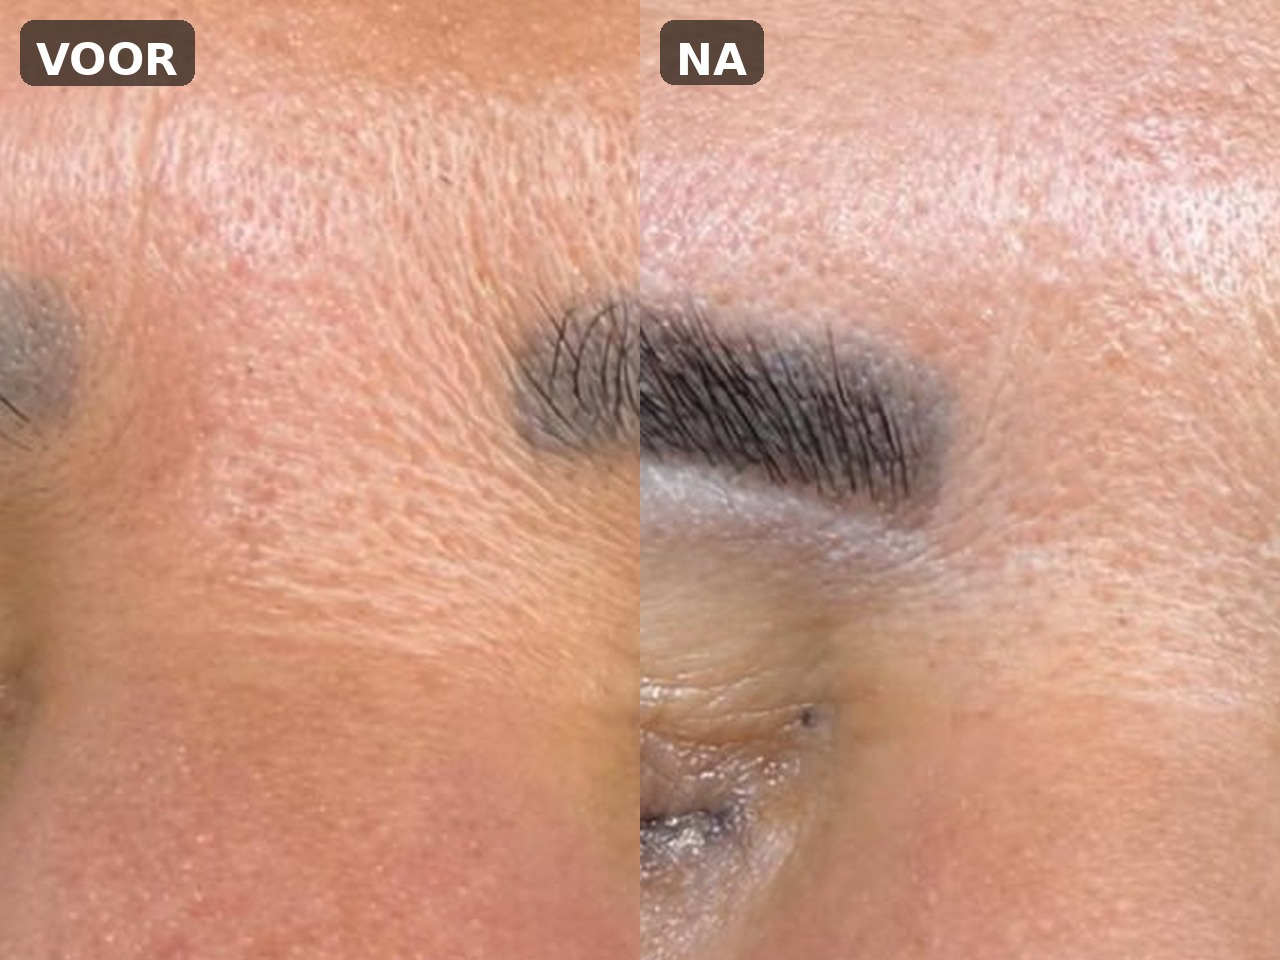
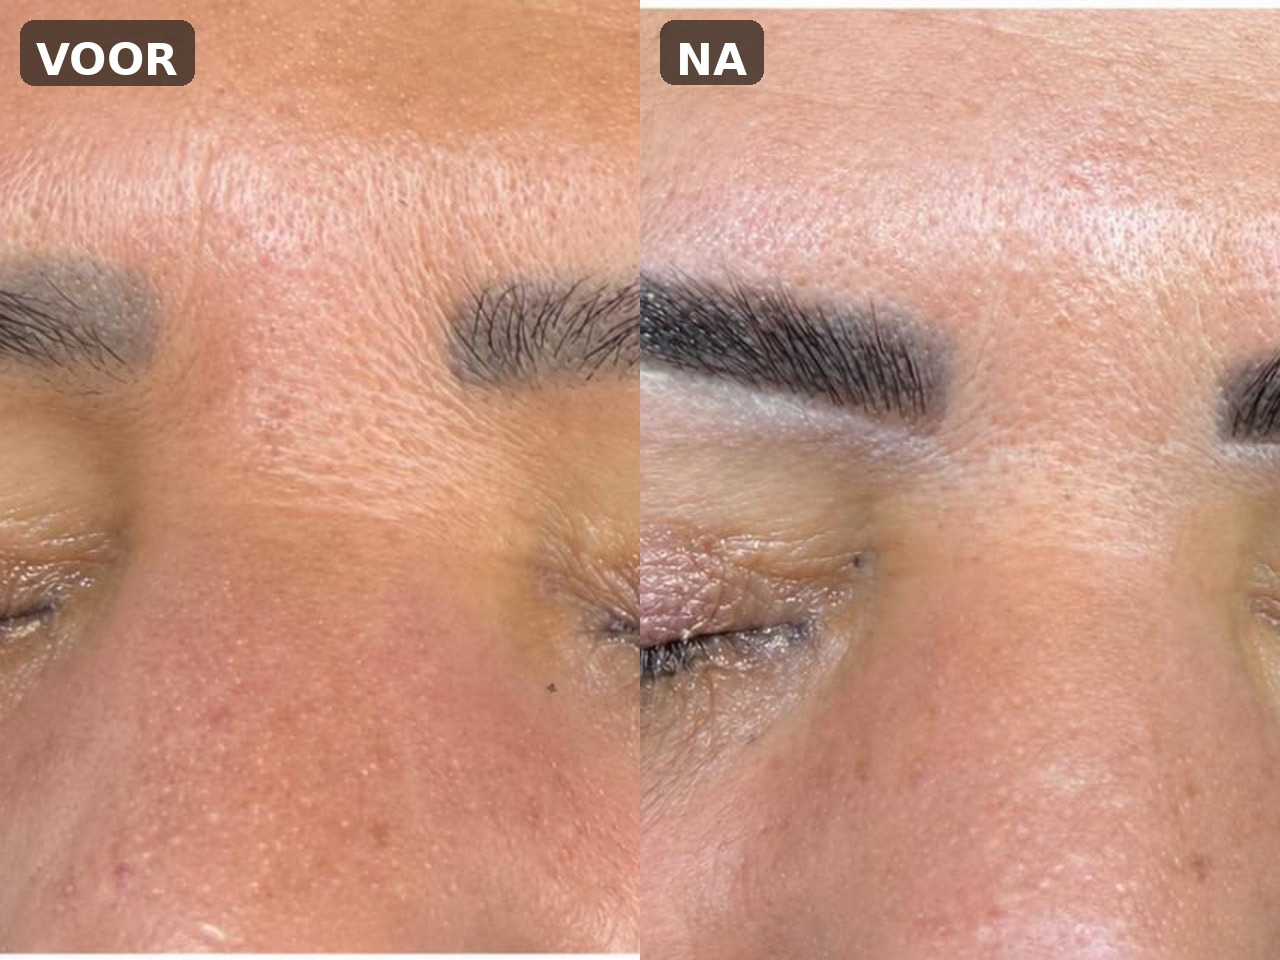
Meer Setmore-CTA's (over/results/reviews) + brows-voor-na2 opnieuw samengevoegd

diff --git a/index.html b/index.html
@@ -489,8 +489,9 @@ footer .social-link:hover svg{opacity:1}
       <div class="ba-item reveal"><img src="images/blowout-result3.jpg" alt="Blowout resultaat — glanzend" loading="lazy"><div class="ba-cap">Glanzend resultaat</div></div>
       <div class="ba-item reveal"><img src="images/blowout-result4.jpg" alt="Blowout resultaat — steil en verzorgd" loading="lazy"><div class="ba-cap">Steil &amp; verzorgd</div></div>
       <div class="ba-item reveal"><img src="images/brows-voor-na.jpg?v=4" alt="Wenkbrauw lamination voor en na — Brow Luxe Selé Beauty Elst" loading="lazy"><div class="ba-cap">Wenkbrauwen — Voor &amp; Na</div></div>
-      <div class="ba-item reveal"><img src="images/brows-voor-na2.jpg?v=3" alt="Wenkbrauwen shapen en verven voor en na — Brow Signature Elst" loading="lazy"><div class="ba-cap">Wenkbrauwen — Voor &amp; Na</div></div>
+      <div class="ba-item reveal"><img src="images/brows-voor-na2.jpg?v=4" alt="Wenkbrauwen shapen en verven voor en na — Brow Signature Elst" loading="lazy"><div class="ba-cap">Wenkbrauwen — Voor &amp; Na</div></div>
     </div>
+    <div class="reveal" style="text-align:center;margin-top:36px"><a href="https://selinaco4l.setmore.com/" target="_blank" rel="noopener" class="btn btn-accent">Boek jouw behandeling</a></div>
   </div>
 </section>
 
@@ -503,6 +504,7 @@ footer .social-link:hover svg{opacity:1}
       <p>27 jaar en inmiddels al 8 jaar werkzaam in de beautybranche. Mijn liefde voor beauty begon al op jonge leeftijd — wat begon met tutorials kijken en alles zelf uitproberen, groeide uit tot een echte passie.</p>
       <p>Beauty is voor mij zoveel meer dan alleen uiterlijke verzorging. Of het nu gaat om perfect gevormde brows, een prachtige blowout of een behandeling die je haar weer laat stralen — het moment waarop een klant in de spiegel kijkt en écht blij is, is waar ik het voor doe.</p>
       <p>Wanneer je bij mij in de stoel zit, draait het om jou. Persoonlijke aandacht, kwaliteit en oog voor detail — ik neem graag de tijd om te kijken naar wat bij jou past. Bij Selé Beauty wil ik een plek creëren waar beauty, persoonlijke aandacht en kwaliteit samenkomen. ♡</p>
+      <a href="https://selinaco4l.setmore.com/" target="_blank" rel="noopener" class="btn btn-accent" style="margin-top:8px">Boek een afspraak bij Selina</a>
     </div>
   </div>
 </section>
@@ -514,8 +516,9 @@ footer .social-link:hover svg{opacity:1}
       <h2>Wat klanten over ons zeggen</h2>
       <p>Benieuwd wat klanten van Selé Beauty Studio vinden?</p>
     </div>
-    <div class="reveal" style="text-align:center">
-      <a href="https://www.google.com/maps/search/?api=1&query=Sel%C3%A9+Beauty+Studio+Elst+Gelderland" target="_blank" rel="noopener" class="btn btn-accent">Bekijk reviews op Google</a>
+    <div class="reveal" style="text-align:center;display:flex;gap:14px;justify-content:center;flex-wrap:wrap">
+      <a href="https://www.google.com/maps/search/?api=1&query=Sel%C3%A9+Beauty+Studio+Elst+Gelderland" target="_blank" rel="noopener" class="btn btn-ghost">Bekijk reviews op Google</a>
+      <a href="https://selinaco4l.setmore.com/" target="_blank" rel="noopener" class="btn btn-accent">Boek een afspraak</a>
     </div>
   </div>
 </section>
